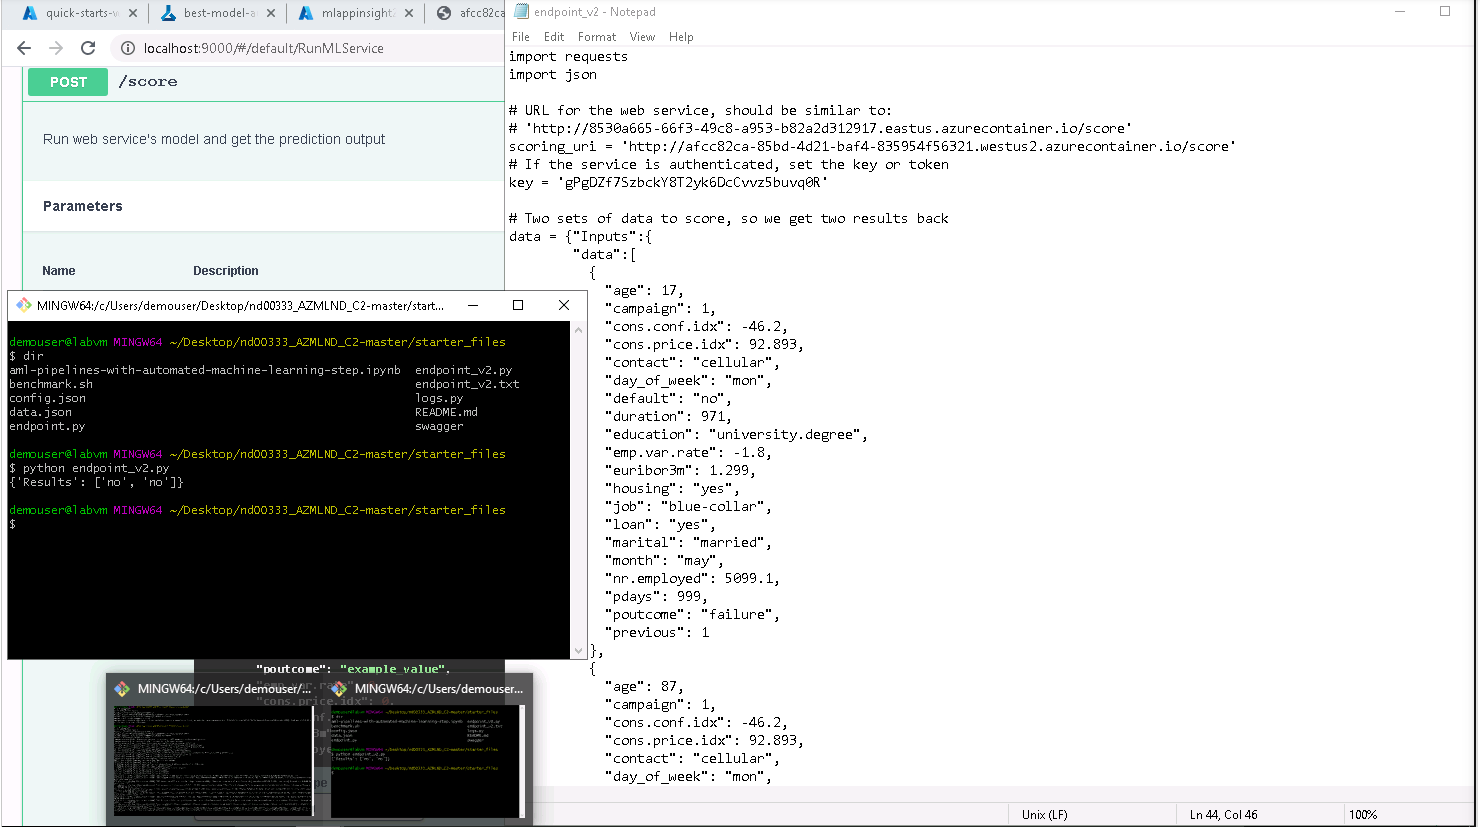
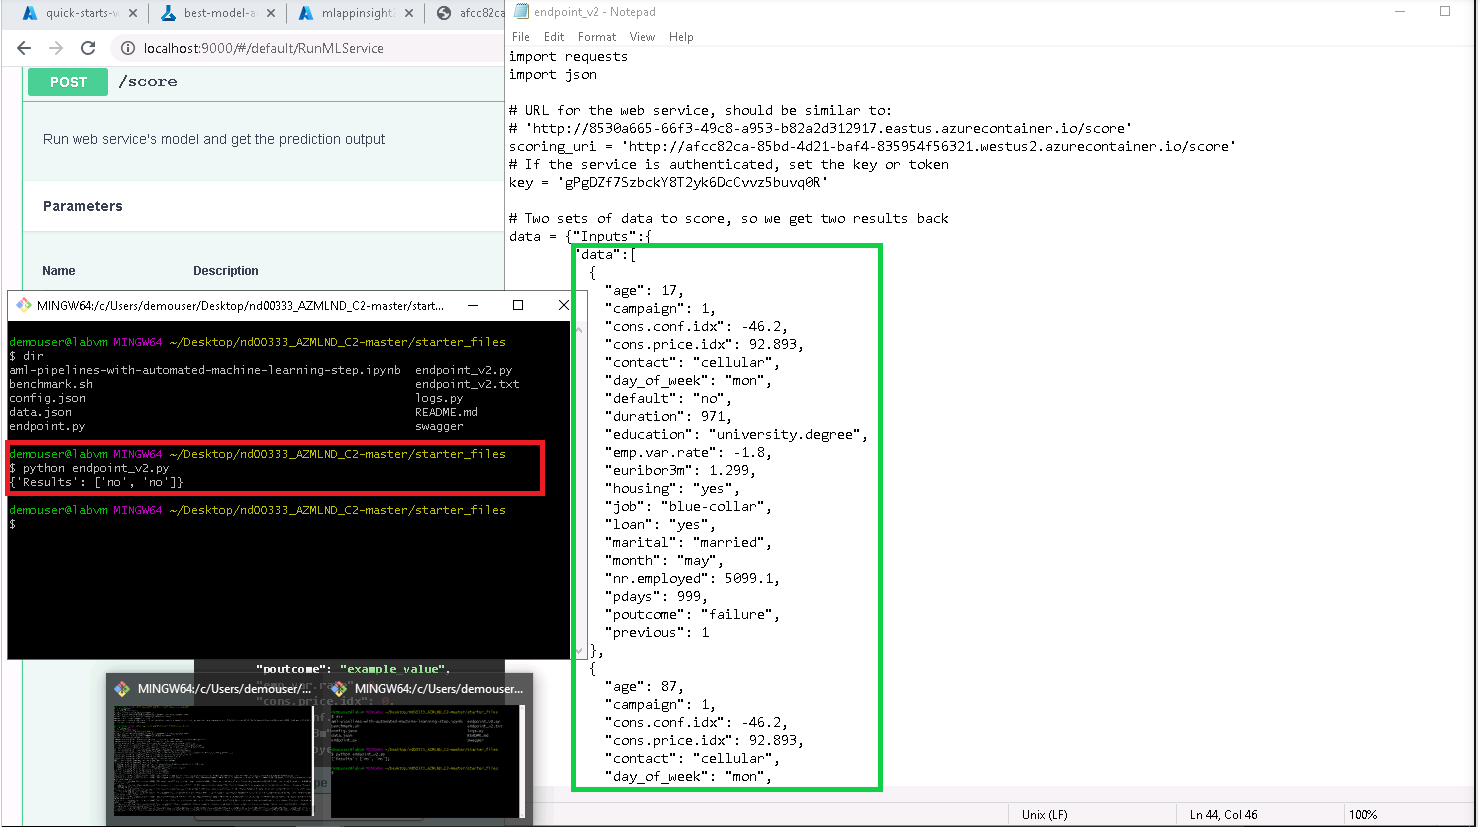
Image update

Changed region(s): [[0.0, 0.2721, 0.5905, 0.9674], [0.5905, 0.3023, 0.6216, 0.9371]]

diff --git a/starter_files/README.md b/starter_files/README.md
@@ -73,7 +73,9 @@ If we explore the content of the registered dataset we can see that the data is 
 
 ### Step 6: Consume Model Enpoints
 
-#### Screenshot 6.1: Swagger
+#### Screenshot 6.1: Output of model REST endpoint
+
+In this screenshot we can see that we have provided the endpoint with two inpunt datasets (green square), and it has returned the predictions for both cases (red square).
 
 ![Endpoint](./screenshots/Endpoint_output_step6.PNG)
 
@@ -93,7 +95,7 @@ If we explore the content of the registered dataset we can see that the data is 
 ## Screen Recording
 *TODO* Provide a link to a screen recording of the project in action. Remember that the screencast should demonstrate:
 
-[Youtube_video](https://youtu.be/xIrkuYJ_aoI)
+[Youtube_video](https://youtu.be/xIrkuYJ_aoI?feature=shared&t=37)
 
 ## Standout Suggestions
 *TODO (Optional):* This is where you can provide information about any standout suggestions that you have attempted.
